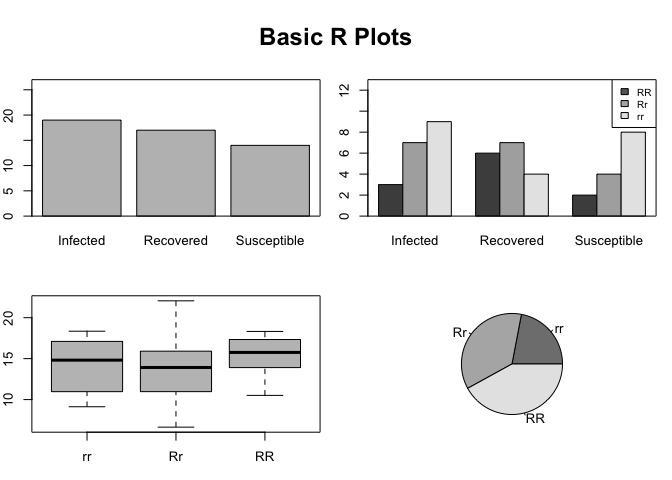
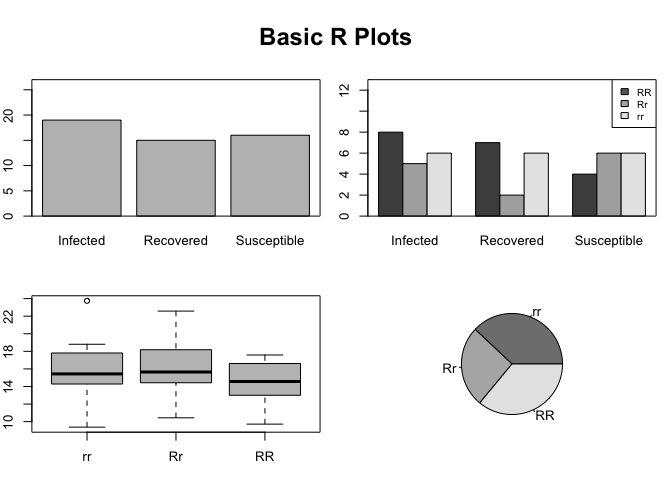
welcome back

diff --git a/Advanced_R/welcome_back.md b/Advanced_R/welcome_back.md
@@ -333,7 +333,7 @@ I
 
     ## InfStatus
     ##    Infected   Recovered Susceptible 
-    ##          19          17          14
+    ##          19          15          16
 
 ``` r
 # Now let's make a random sample of 3 genotypes (RR, Rr, and rr)
@@ -344,7 +344,7 @@ G
 
     ## Genotype
     ## rr Rr RR 
-    ## 11 18 21
+    ## 19 13 18
 
 ``` r
 #show genotype and infected status as a table 
@@ -353,9 +353,9 @@ table(Genotype, InfStatus)
 
     ##         InfStatus
     ## Genotype Infected Recovered Susceptible
-    ##       rr        3         6           2
-    ##       Rr        7         7           4
-    ##       RR        9         4           8
+    ##       rr        8         7           4
+    ##       Rr        5         2           6
+    ##       RR        6         6           6
 
 Note - We turned the sample data info a `factor` to make sure the factors aren't double indexed...here is what I mean...
 
@@ -365,16 +365,16 @@ test <- sample(c("Susceptible", "Infected", "Recovered"),size = 50, replace = TR
 test
 ```
 
-    ##  [1] "Recovered"   "Recovered"   "Recovered"   "Infected"    "Susceptible"
-    ##  [6] "Susceptible" "Infected"    "Susceptible" "Recovered"   "Infected"   
-    ## [11] "Recovered"   "Infected"    "Infected"    "Infected"    "Recovered"  
-    ## [16] "Infected"    "Recovered"   "Recovered"   "Susceptible" "Susceptible"
-    ## [21] "Recovered"   "Infected"    "Recovered"   "Susceptible" "Infected"   
-    ## [26] "Infected"    "Susceptible" "Recovered"   "Recovered"   "Susceptible"
-    ## [31] "Infected"    "Infected"    "Susceptible" "Susceptible" "Recovered"  
-    ## [36] "Susceptible" "Infected"    "Susceptible" "Infected"    "Infected"   
-    ## [41] "Susceptible" "Susceptible" "Infected"    "Susceptible" "Susceptible"
-    ## [46] "Recovered"   "Infected"    "Recovered"   "Infected"    "Susceptible"
+    ##  [1] "Infected"    "Infected"    "Susceptible" "Recovered"   "Susceptible"
+    ##  [6] "Infected"    "Infected"    "Susceptible" "Infected"    "Recovered"  
+    ## [11] "Susceptible" "Infected"    "Susceptible" "Susceptible" "Recovered"  
+    ## [16] "Infected"    "Recovered"   "Infected"    "Susceptible" "Infected"   
+    ## [21] "Infected"    "Susceptible" "Susceptible" "Susceptible" "Susceptible"
+    ## [26] "Susceptible" "Infected"    "Recovered"   "Infected"    "Recovered"  
+    ## [31] "Infected"    "Susceptible" "Recovered"   "Susceptible" "Recovered"  
+    ## [36] "Infected"    "Infected"    "Recovered"   "Infected"    "Recovered"  
+    ## [41] "Susceptible" "Recovered"   "Recovered"   "Susceptible" "Recovered"  
+    ## [46] "Susceptible" "Susceptible" "Infected"    "Susceptible" "Infected"
 
 ``` r
 class(test)
@@ -388,15 +388,15 @@ test2 <- factor(sample(c("Susceptible", "Infected", "Recovered"),size = 50, repl
 test2
 ```
 
-    ##  [1] Susceptible Infected    Recovered   Recovered   Recovered   Recovered  
-    ##  [7] Susceptible Susceptible Infected    Infected    Susceptible Susceptible
-    ## [13] Susceptible Infected    Recovered   Recovered   Recovered   Infected   
-    ## [19] Susceptible Susceptible Susceptible Recovered   Susceptible Infected   
-    ## [25] Recovered   Recovered   Susceptible Infected    Infected    Infected   
-    ## [31] Susceptible Recovered   Recovered   Susceptible Recovered   Infected   
-    ## [37] Susceptible Susceptible Infected    Recovered   Susceptible Susceptible
-    ## [43] Recovered   Infected    Recovered   Susceptible Infected    Recovered  
-    ## [49] Infected    Infected   
+    ##  [1] Susceptible Recovered   Susceptible Infected    Susceptible Infected   
+    ##  [7] Recovered   Susceptible Infected    Infected    Recovered   Susceptible
+    ## [13] Recovered   Susceptible Susceptible Recovered   Susceptible Susceptible
+    ## [19] Infected    Infected    Recovered   Infected    Recovered   Susceptible
+    ## [25] Recovered   Infected    Recovered   Recovered   Recovered   Susceptible
+    ## [31] Recovered   Recovered   Recovered   Recovered   Susceptible Susceptible
+    ## [37] Susceptible Infected    Susceptible Susceptible Infected    Susceptible
+    ## [43] Recovered   Recovered   Susceptible Susceptible Infected    Recovered  
+    ## [49] Susceptible Recovered  
     ## Levels: Infected Recovered Susceptible
 
 ``` r
@@ -593,7 +593,7 @@ hist(treedat$BarkThick, xlab= "Bark Thickness (cm)", main= "Histogram: Bark Thic
 boxplot(SapDepth ~ spp, data= treedat, ylab= "SapDepth", col= "darkslateblue", main= "Boxplot: Sapwood Depth by Species")
 ```
 
-![](welcome_back_files/figure-markdown_github/unnamed-chunk-9-1.png)
+![](welcome_back_files/figure-markdown_github/unnamed-chunk-10-1.png)
 
 Note: hist() is the histogram function and boxplot() is the boxplot function. For the boxplot, notice how the x ~ y, data=dataframe syntax is. It's slightly different than the plotting instances above and for the histogram. For a histogram, the hist() function can only intake numerical values. Thus, if we wanted to take a species histogram, we would have to take a workaround like so -
 
@@ -601,7 +601,7 @@ Note: hist() is the histogram function and boxplot() is the boxplot function. Fo
 barplot(summary(treedat$spp))
 ```
 
-![](welcome_back_files/figure-markdown_github/unnamed-chunk-10-1.png)
+![](welcome_back_files/figure-markdown_github/unnamed-chunk-11-1.png)
 
 Assignment:
 -----------
@@ -609,9 +609,9 @@ Assignment:
 Using the TreeData.csv above, complete the following:
 
 1.  Rename 'spp' variable to 'species'
-2.  Make a 3 row plot consisting of Sapwood Depth histogram, boxplot of Bark Thickness by species, and a histogram showing the seasonal counts.
+2.  Make a 3 column plot consisting of Sapwood Depth histogram, boxplot of Bark Thickness by species, and a histogram showing the seasonal counts.
 3.  Submit plot to Assignment 1 on Canvas
 
 Your final plot should look like this
 
-![](welcome_back_files/figure-markdown_github/unnamed-chunk-11-1.png)
+![](welcome_back_files/figure-markdown_github/unnamed-chunk-12-1.png)
